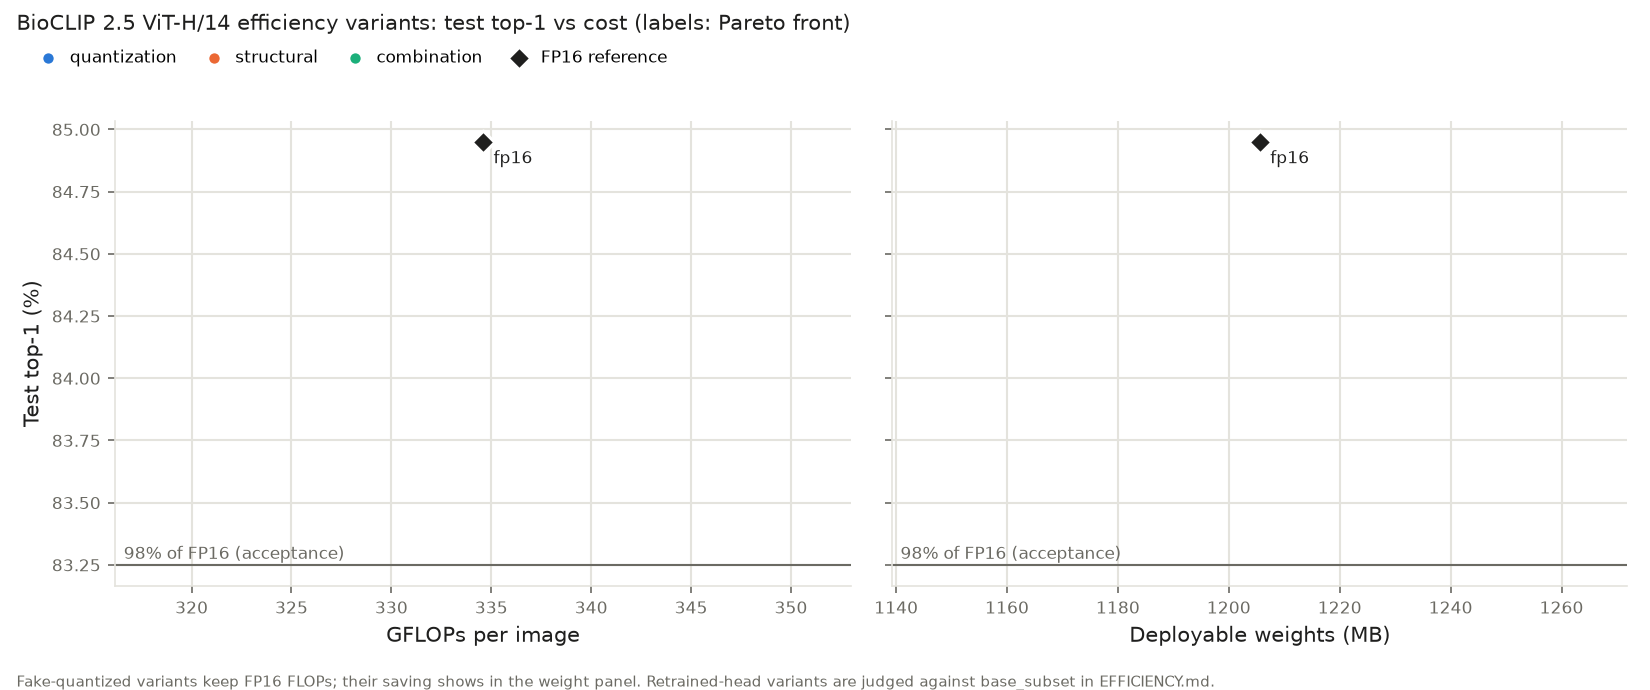
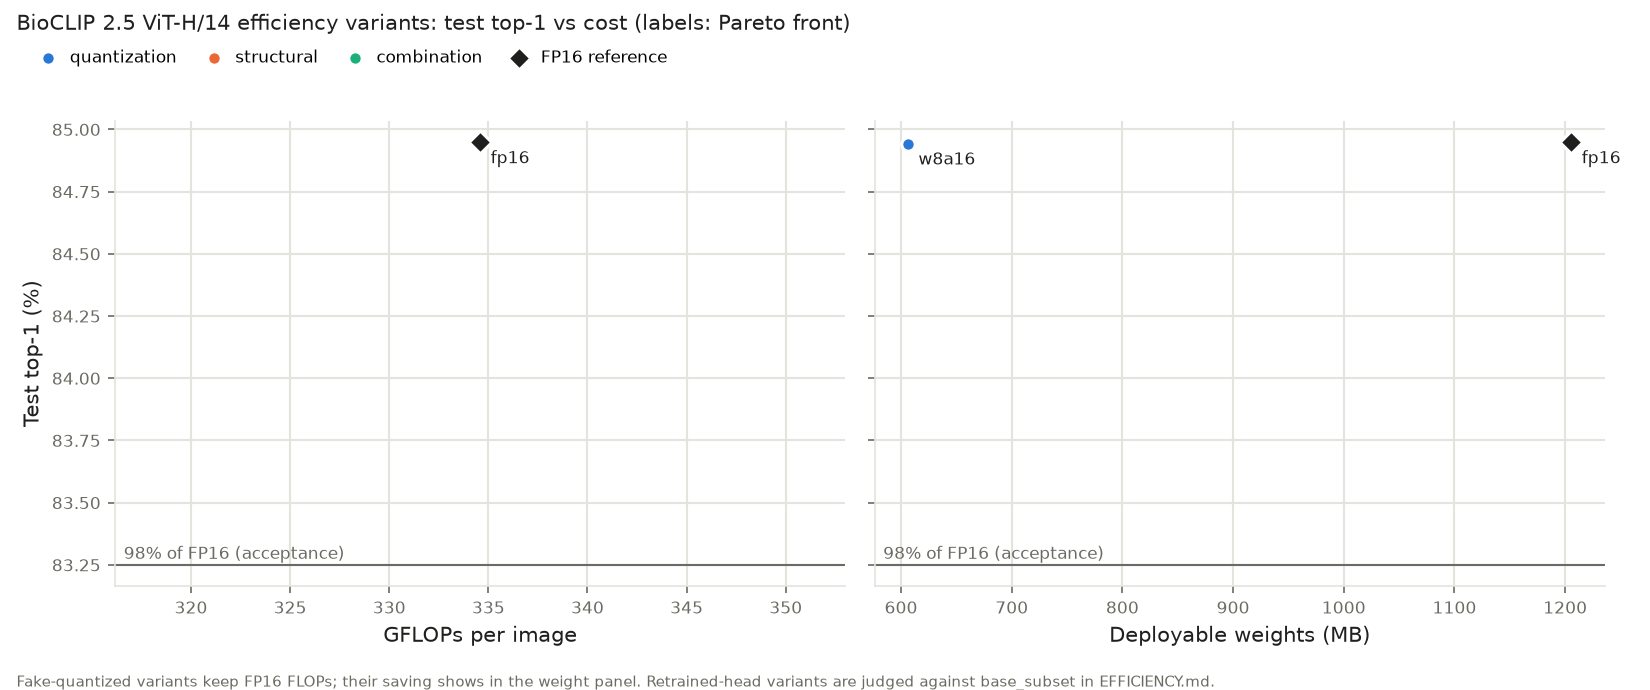
Overnight round 1 journal; efficiency report with w8a16

diff --git a/ops/OVERNIGHT.md b/ops/OVERNIGHT.md
@@ -146,3 +146,29 @@ Notes on the token-merging grid:
   - **Smoke-tested** on 400 images per split: every variant type runs, and the custom forward matches stock open_clip at cosine 1.000000.
   - **Queued:** A1, A2 and A3 in that order, about 6.5 h of GPU time.
   - **Next round should:** check A1/A2 results as they land, adjust A2 if the partial search misses, and start Phase C in parallel.
+- **2026-11-19, round 1 (02:35–03:15):**
+  - **Found:**
+    - `fp16` finished (rc 0, 19 min): test top-1 84.95%, top-5 96.45%, regional val 90.03%, val_ext 48.89%, 188 img/s, 1,206 MB, 334.6 GFLOPs.
+    - **A2 targets:** regional val ≥ 0.8823 (the partial search's own goal); test ≥ 0.8325 to accept.
+    - `w8a16` finished (rc 0): test 84.94% (Δ −0.01 pt, McNemar p 0.74), weights 606 MB. Weight-only INT8 is free.
+    - No failed jobs.
+  - **Phase C (built this round, D-027):**
+    - The trait table came from the NC State toolbox. FDA PLANTOX is gone; USDA PLANTS returned 504 all round.
+    - 2,714 cited rows over 872 species. Source pages cover 68% of test images.
+    - DMR is now in `metrics.dmr`, `evaluate.py` and `efficiency_report`. Baseline (probe, no abstention): 5.45% contact, 4.38% ingestion. Zero-shot: 6.44% / 4.63%.
+    - **Decided:** genus pages back species without their own page. Toxic rows apply as stated; edible rows become conditional.
+  - **A5:** `efficiency_report.py` writes `results/EFFICIENCY.md` and `results/figures/efficiency_pareto.png`. It runs on the CPU in about 10 s, so rerun it each round.
+  - **Phase B:** the diagnosis is in the plan section. Briefly: moss errors are cross-family, the training mix is 99% ToL, and the bryophyte selection slice is `val_ext_bryo`.
+    - Added `linear_probe --w-field/--w-bryo/--extra-train` and `embed_images --phyla`. All CPU smoke-tested.
+  - **Queue changes:**
+    - `eval.evaluate` at the front: official `eval.csv` rows with DMR, about 2 min.
+    - **Decided:** 7 Phase B jobs go after A1 and before A3: 5 probes, the unused-bryophyte embed (14.6K images) and its probe, about 30 min. This brings B's results in by about 05:00 instead of after A3, and delays A3 by 30 min.
+    - The queue now runs until about 09:30, so Phase D will not run tonight (noted in the plan).
+  - **Next round should first:**
+    1. Check `done.tsv` for `quant.sensitivity` and `quant.partial_search`.
+       - If the partial search missed, queue the next A2 step at the front: `quant.sensitivity --smooth 0.8 --tag s08`, then `quant.partial_search --smooth 0.8 --sens quant_sensitivity_s08.csv --prefix w8a8p`.
+       - If it hit on test, write the A2 decision (the next free D number) and tick A2.
+    2. Rerun `efficiency_report`.
+    3. Read the `phaseB_*` rows in `results/tables/bioclip_probe.csv` and apply the D-026 rule on `probe_val_ext_bryo_top1` and `probe_val_regional_top1`. Only if a variant passes, retrain the production probe with it and record a decision.
+    4. Plan A4 once A3 results land.
+  - **Careful:** `linear_probe` defaults to `--out artifacts/probe.pt`, which is production. Every experiment needs its own `--out`.

diff --git a/results/EFFICIENCY.md b/results/EFFICIENCY.md
@@ -9,5 +9,6 @@ Latency, memory and NPU compile need the phone; GPU img/s here is a ROCm proxy f
 | variant | family | ref | test top-1 | Δ pt | rel | test top-5 | val reg top-1 | val_ext top-1 | rare top-1 | agree ref | McNemar p | DMR contact | DMR ingest | weights MB | GFLOPs | GPU img/s |
 |---|---|---|---|---|---|---|---|---|---|---|---|---|---|---|---|---|
 | fp16 | reference | – | 84.95 | – | – | 96.45 | 90.03 | 48.89 | 57.98 | – | – | 5.46 | 4.41 | 1206 | 334.6 | 188 |
+| w8a16 | quantization | fp16 | 84.94 | -0.01 | 0.9999 | 96.45 | 90.04 | 48.82 | 58.00 | 0.9946 | 7.4e-01 | 5.44 | 4.36 | 606 | 334.6 | – |
 
 ![Pareto](figures/efficiency_pareto.png)
